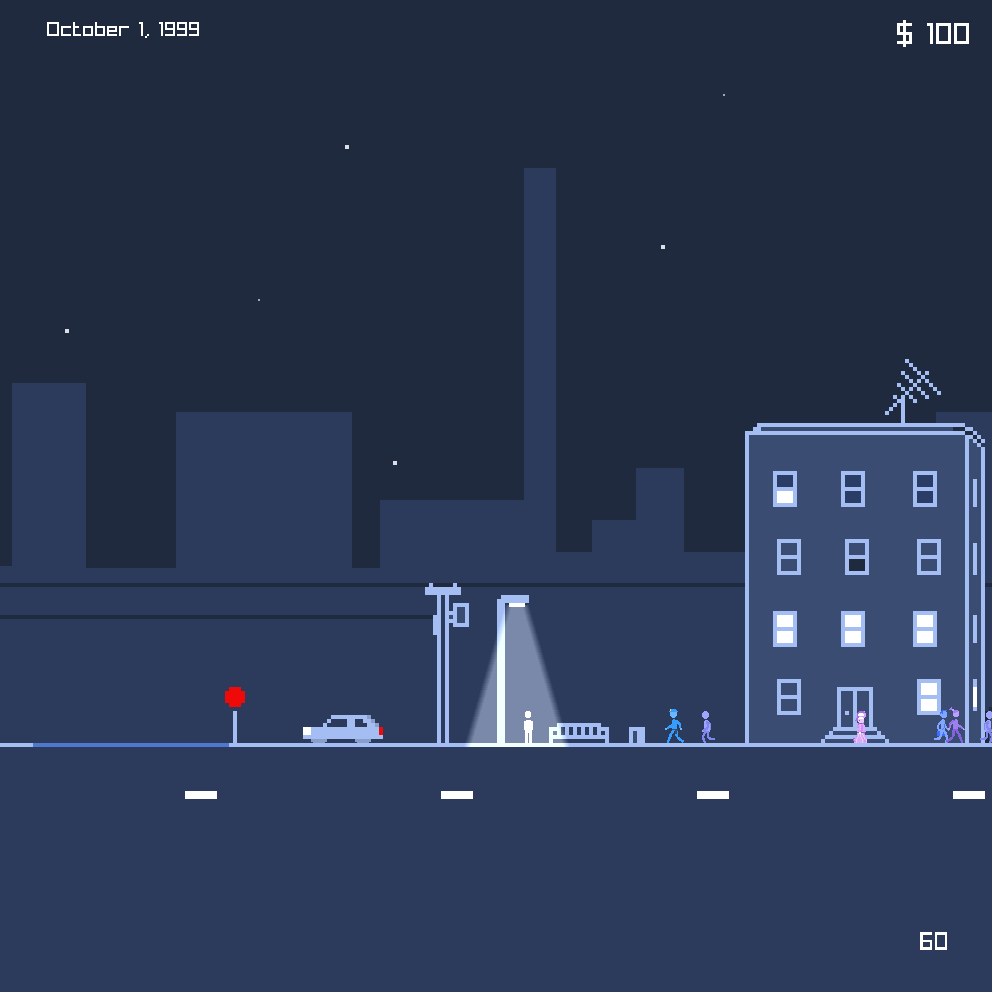
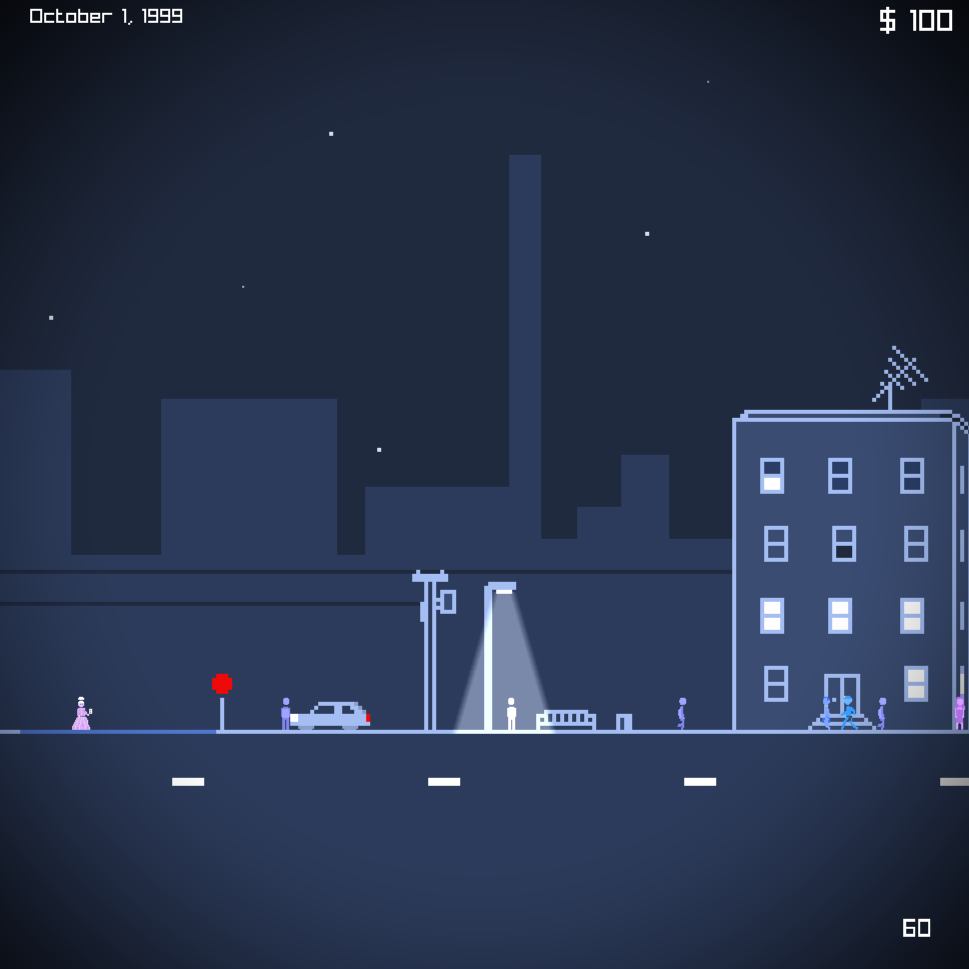
Added vignette shader

diff --git a/main.cpp b/main.cpp
@@ -73,6 +73,7 @@ bool can_sell_drugs = true;
 bool applyShader = false;
 bool drunk = false;
 bool glitch = false;
+bool vignette = true; //start vignette
 bool openMagicDoor = false;
 bool move_car = false;
 bool showHealthbar = false;
@@ -1453,18 +1454,24 @@ void RenderAstral(GameResources& resources, Player& player, Camera2D& camera, Ve
         if (player.isAiming) player.facingRight = worldMousePosition.x > player.position.x;//Hack to make aiming work both ways
     } 
 
+    if (vignette){ //vignette first so others can override. 
+        BeginShaderMode(shaders.vignetteShader);
+    }
+
     if (applyShader){
-        
+
         BeginShaderMode(shaders.glowShader);
         
     }
 
     if (drunk){
         BeginShaderMode(shaders.glowShader2);
+
     }
     
     if (glitch){
-        BeginShaderMode(shaders.glitchShader);
+        BeginShaderMode(shaders.glitchVignetteShader);
+
     }
 
     // Draw the background layers
@@ -1638,18 +1645,25 @@ void RenderCemetery(GameResources& resources,Player& player, PlayerCar& player_c
     //BeginShaderMode(shader);
 
 
+    if (vignette){ //vignette first so others can override. 
+        BeginShaderMode(shaders.vignetteShader);
+    }
+
     if (applyShader){
-        
+
         BeginShaderMode(shaders.glowShader);
         
     }
 
     if (drunk){
         BeginShaderMode(shaders.glowShader2);
+
     }
     
     if (glitch){
-        BeginShaderMode(shaders.glitchShader);
+        //BeginShaderMode(shaders.glitchShader);
+        BeginShaderMode(shaders.glitchVignetteShader);
+ 
     }
 
     // Draw the background layers
@@ -1830,20 +1844,27 @@ void RenderRoad(const GameResources& resources, PlayerCar& player_car,Player& pl
 
     hasSlept = false; // player can sleep if they have traveled.
 
+
+    if (vignette){ //vignette first so others can override. 
+        BeginShaderMode(shaders.vignetteShader);
+    }
+
     if (applyShader){
-        
+
         BeginShaderMode(shaders.glowShader);
         
     }
 
     if (drunk){
         BeginShaderMode(shaders.glowShader2);
+
     }
     
     if (glitch){
-        BeginShaderMode(shaders.glitchShader);
-    }
+        BeginShaderMode(shaders.glitchVignetteShader);
 
+    }
+    
 
 
     BeginMode2D(camera);
@@ -1934,18 +1955,24 @@ void RenderGraveyard(GameResources resources,Player& player,Camera2D& camera,Vec
     float parallaxTrees = camera.target.x * 0.8;
     float parallaxBackground = camera.target.x * 0.9f;  // Background moves even slower 
     
+    if (vignette){ //vignette first so others can override. 
+        BeginShaderMode(shaders.vignetteShader);
+    }
+
     if (applyShader){
-        
+
         BeginShaderMode(shaders.glowShader);
         
     }
 
     if (drunk){
         BeginShaderMode(shaders.glowShader2);
+
     }
     
     if (glitch){
-        BeginShaderMode(shaders.glitchShader);
+        BeginShaderMode(shaders.glitchVignetteShader);
+
     }
 
     // Draw the background layers
@@ -2064,18 +2091,24 @@ void RenderApartment(GameResources& resources, Player player, Vector2 mousePosit
     
      //Vector2 drawerPos = {screenWidth/2 + 160, 730};
 
-   if (applyShader){
-        
+    if (vignette){ //vignette first so others can override. 
+        BeginShaderMode(shaders.vignetteShader);
+    }
+
+    if (applyShader){
+
         BeginShaderMode(shaders.glowShader);
         
     }
 
     if (drunk){
         BeginShaderMode(shaders.glowShader2);
+
     }
     
     if (glitch){
-        BeginShaderMode(shaders.glitchShader);
+        BeginShaderMode(shaders.glitchVignetteShader);
+
     }
 
     ClearBackground(ApartmentBgColor);
@@ -2162,7 +2195,7 @@ void RenderLot(GameResources& resources, Player& player, Camera2D& camera, Vecto
     }
     
     if (glitch){
-        BeginShaderMode(shaders.glitchShader);
+        BeginShaderMode(shaders.glitchVignetteShader);
     }
 
     BeginMode2D(camera);
@@ -2306,19 +2339,25 @@ void RenderOutside(GameResources& resources, Camera2D& camera,Player& player, Pl
     
     BeginMode2D(camera);  // Begin 2D mode with the camera
     ClearBackground(customBackgroundColor);
+    if (vignette){ //vignette first so others can override. 
+        BeginShaderMode(shaders.vignetteShader);
+    }
 
     if (applyShader){
-        
+
         BeginShaderMode(shaders.glowShader);
         
     }
 
     if (drunk){
         BeginShaderMode(shaders.glowShader2);
+
     }
-    
+
     if (glitch){
-        BeginShaderMode(shaders.glitchShader);
+        BeginShaderMode(shaders.glitchVignetteShader);
+   
+
     }
     
      // Draw the background (sky)
@@ -2561,9 +2600,9 @@ void spawnNPCs(GameResources& resources){
 
 
     //create ghost // call update on ghost where ever needed like graveyard or cemetery
-    Vector2 g_pos = {2000, 700};
+    Vector2 g_pos = {2100, 700};
     NPC ghost_npc = CreateNPC(resources.ghostSheet, g_pos, speed, IDLE, false, false);
-    ghost_npc.SetDestination(2000, 2200);
+    ghost_npc.SetDestination(2100, 2200);
     ghost_npc.ghost = true;
     ghost_npc.maxHealth = 500;
     ghost_npc.health = 500;
@@ -2847,9 +2886,6 @@ int main() {
     //PlayMusicStream(SoundManager::getInstance().GetMusic("Jangwa"));
     PlayMusicStream(SoundManager::getInstance().GetMusic("Neon"));
 
-    Shader glowShader = shaders.glowShader;
-    Shader glitchShader = shaders.glitchShader;
-    Shader glowShader2 = shaders.glowShader2;
     
     //int timeLoc = shaders.timeLoc;
     //float totalTime = 0.0f; // Variable to keep track of time //glitch shader

diff --git a/shaderControl.cpp b/shaderControl.cpp
@@ -14,6 +14,8 @@ void InitShaders(ShaderResources& shaders, int screenWidth, int screenHeight) {
     shaders.glitchShader = LoadShader(0, "shaders/glitch.fs");
     shaders.glowShader2 = LoadShader(0, "shaders/glow2.fs");
     shaders.outlineShader = LoadShader(0, "shaders/outline.fs");
+    shaders.vignetteShader = LoadShader(0, "shaders/vignette.fs");
+    shaders.glitchVignetteShader = LoadShader(0, "shaders/glitchVignetteShader.fs");
 
     // Set up shader uniforms
     float resolution[2] = { static_cast<float>(screenWidth), static_cast<float>(screenHeight) };
@@ -53,7 +55,46 @@ void InitShaders(ShaderResources& shaders, int screenWidth, int screenHeight) {
     float threshold = 0.5f;
     SetShaderValue(shaders.outlineShader, thresholdLoc, &threshold, SHADER_UNIFORM_FLOAT);
 
+    //setup vignette
 
+    int resolutionLoc = GetShaderLocation(shaders.vignetteShader, "resolution");
+    int radiusLoc = GetShaderLocation(shaders.vignetteShader, "radius");
+    int softnessLoc = GetShaderLocation(shaders.vignetteShader, "softness");
+
+    // Set the uniform values
+    //float resolution[2] = { (float)screenWidth, (float)screenHeight };
+    SetShaderValue(shaders.vignetteShader, resolutionLoc, resolution, SHADER_UNIFORM_VEC2);
+
+    // Vignette effect parameters
+    float radius = 0.80f;    // Starting radius (0.0 to 1.0)
+    float softness = 0.45f;  // Softness of the edges
+
+    SetShaderValue(shaders.vignetteShader, radiusLoc, &radius, SHADER_UNIFORM_FLOAT);
+    SetShaderValue(shaders.vignetteShader, softnessLoc, &softness, SHADER_UNIFORM_FLOAT);
+
+
+    //setup glitchVignetteShader
+
+    int glitchStrengthLoc = GetShaderLocation(shaders.glitchVignetteShader, "glitchStrength");
+    int maxGlitchOffsetLoc = GetShaderLocation(shaders.glitchVignetteShader, "maxGlitchOffset");
+
+
+    shaders.timeLoc = GetShaderLocation(shaders.glitchVignetteShader, "time");
+    resolutionLoc = GetShaderLocation(shaders.glitchVignetteShader, "resolution");
+    int radiusLoc2 = GetShaderLocation(shaders.glitchVignetteShader, "radius");
+    int softnessLoc2 = GetShaderLocation(shaders.glitchVignetteShader, "softness");
+
+
+    SetShaderValue(shaders.glitchVignetteShader, resolutionLoc, resolution, SHADER_UNIFORM_VEC2);
+
+    SetShaderValue(shaders.glitchVignetteShader, radiusLoc2, &radius, SHADER_UNIFORM_FLOAT);
+    SetShaderValue(shaders.glitchVignetteShader, softnessLoc2, &softness, SHADER_UNIFORM_FLOAT);
+
+    float glitchStrength = 0.1f;   // Adjust as needed
+    float maxGlitchOffset = 0.01f; // Adjust as needed
+
+    SetShaderValue(shaders.glitchVignetteShader, glitchStrengthLoc, &glitchStrength, SHADER_UNIFORM_FLOAT);
+    SetShaderValue(shaders.glitchVignetteShader, maxGlitchOffsetLoc, &maxGlitchOffset, SHADER_UNIFORM_FLOAT);
 
 
 
@@ -71,7 +112,9 @@ void UnloadShaders(ShaderResources& shaders) {
 void UpdateShaders(ShaderResources& shaders, float deltaTime, GameState& gameState) {
     // Update time for glitch shader
     shaders.totalTime += deltaTime;
-    SetShaderValue(shaders.glitchShader, shaders.timeLoc, &shaders.totalTime, SHADER_UNIFORM_FLOAT);
+
+    //SetShaderValue(shaders.glitchShader, shaders.timeLoc, &shaders.totalTime, SHADER_UNIFORM_FLOAT);
+    SetShaderValue(shaders.glitchVignetteShader, shaders.timeLoc, &shaders.totalTime, SHADER_UNIFORM_FLOAT);
 
     ///update glowShader
     float time = GetTime();  // Get the total elapsed time

diff --git a/shaderControl.h b/shaderControl.h
@@ -12,6 +12,8 @@ struct ShaderResources {
     Shader glitchShader;
     Shader glowShader2;
     Shader outlineShader;
+    Shader vignetteShader;
+    Shader glitchVignetteShader;
     int timeLoc;
     int glowThresholdLoc;
     int glowIntensityLoc;
